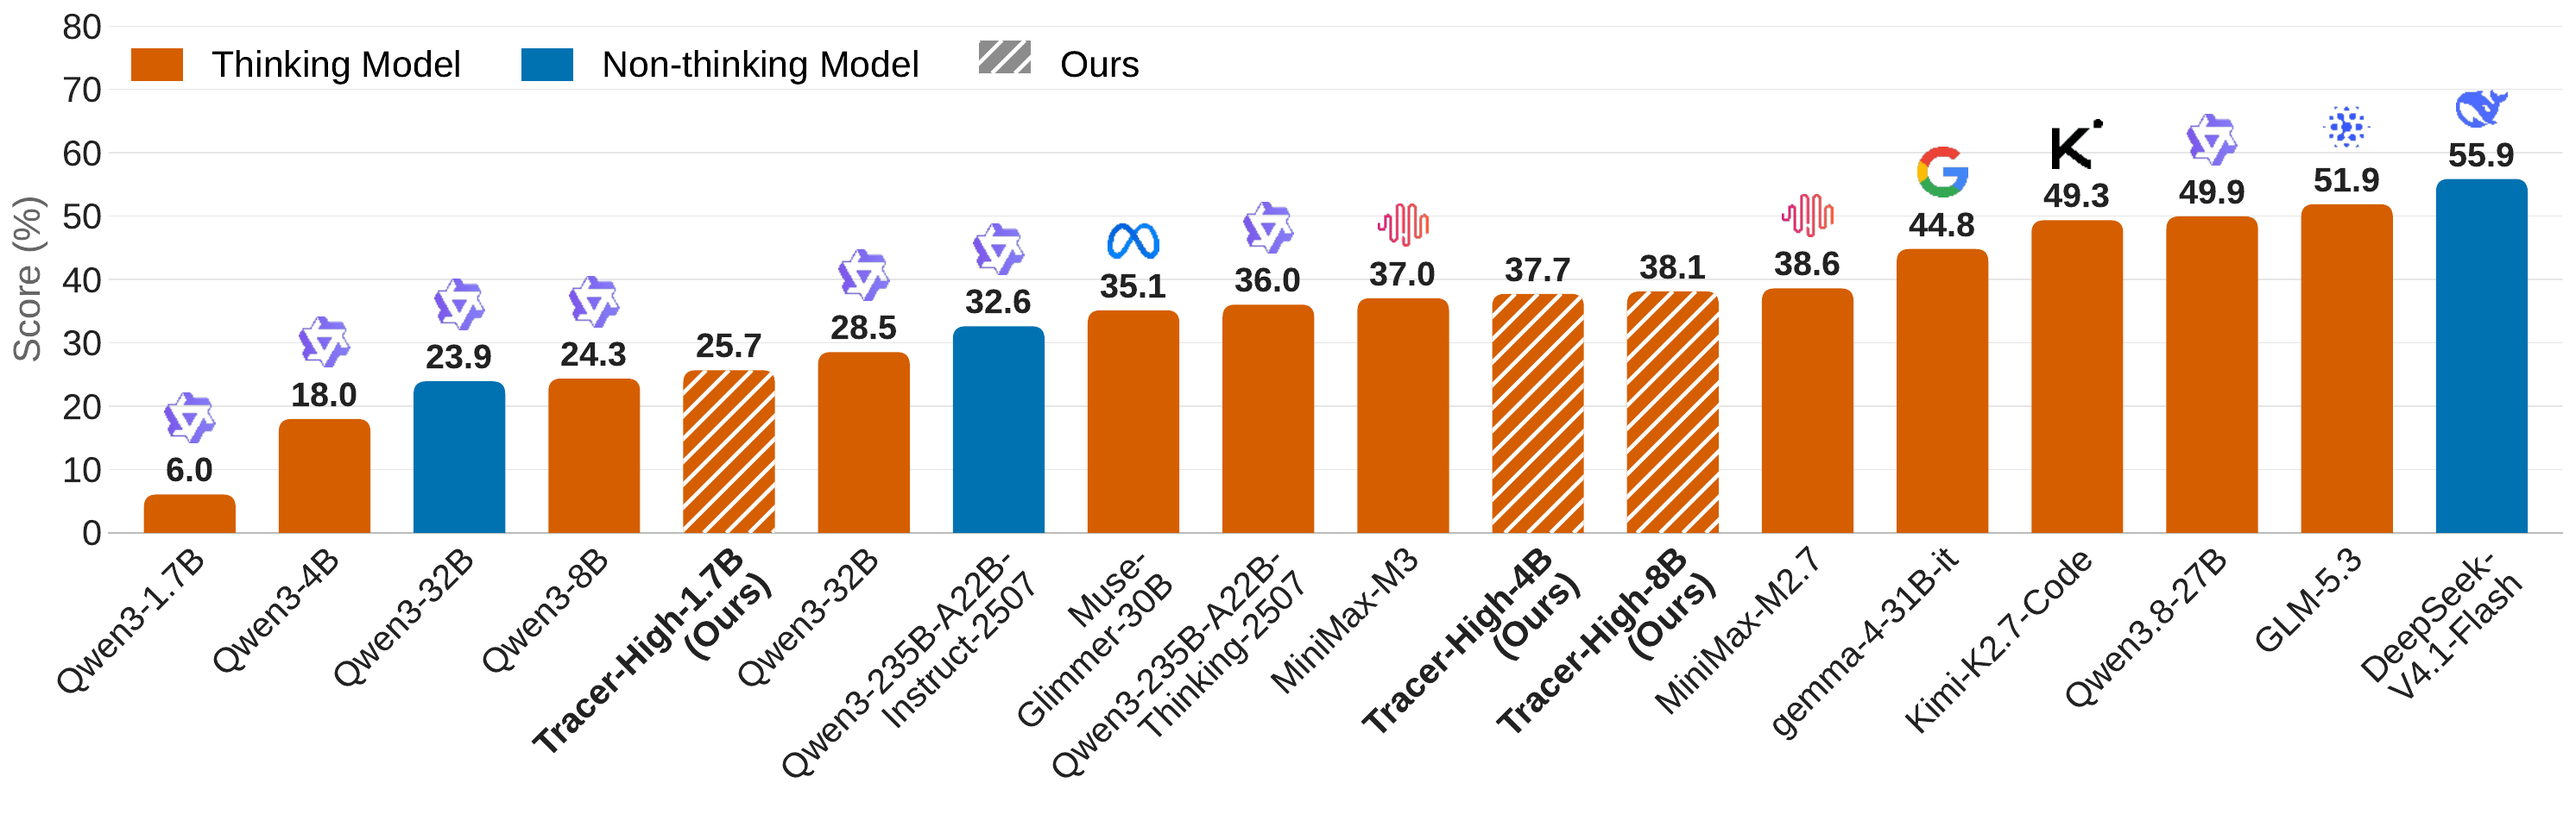
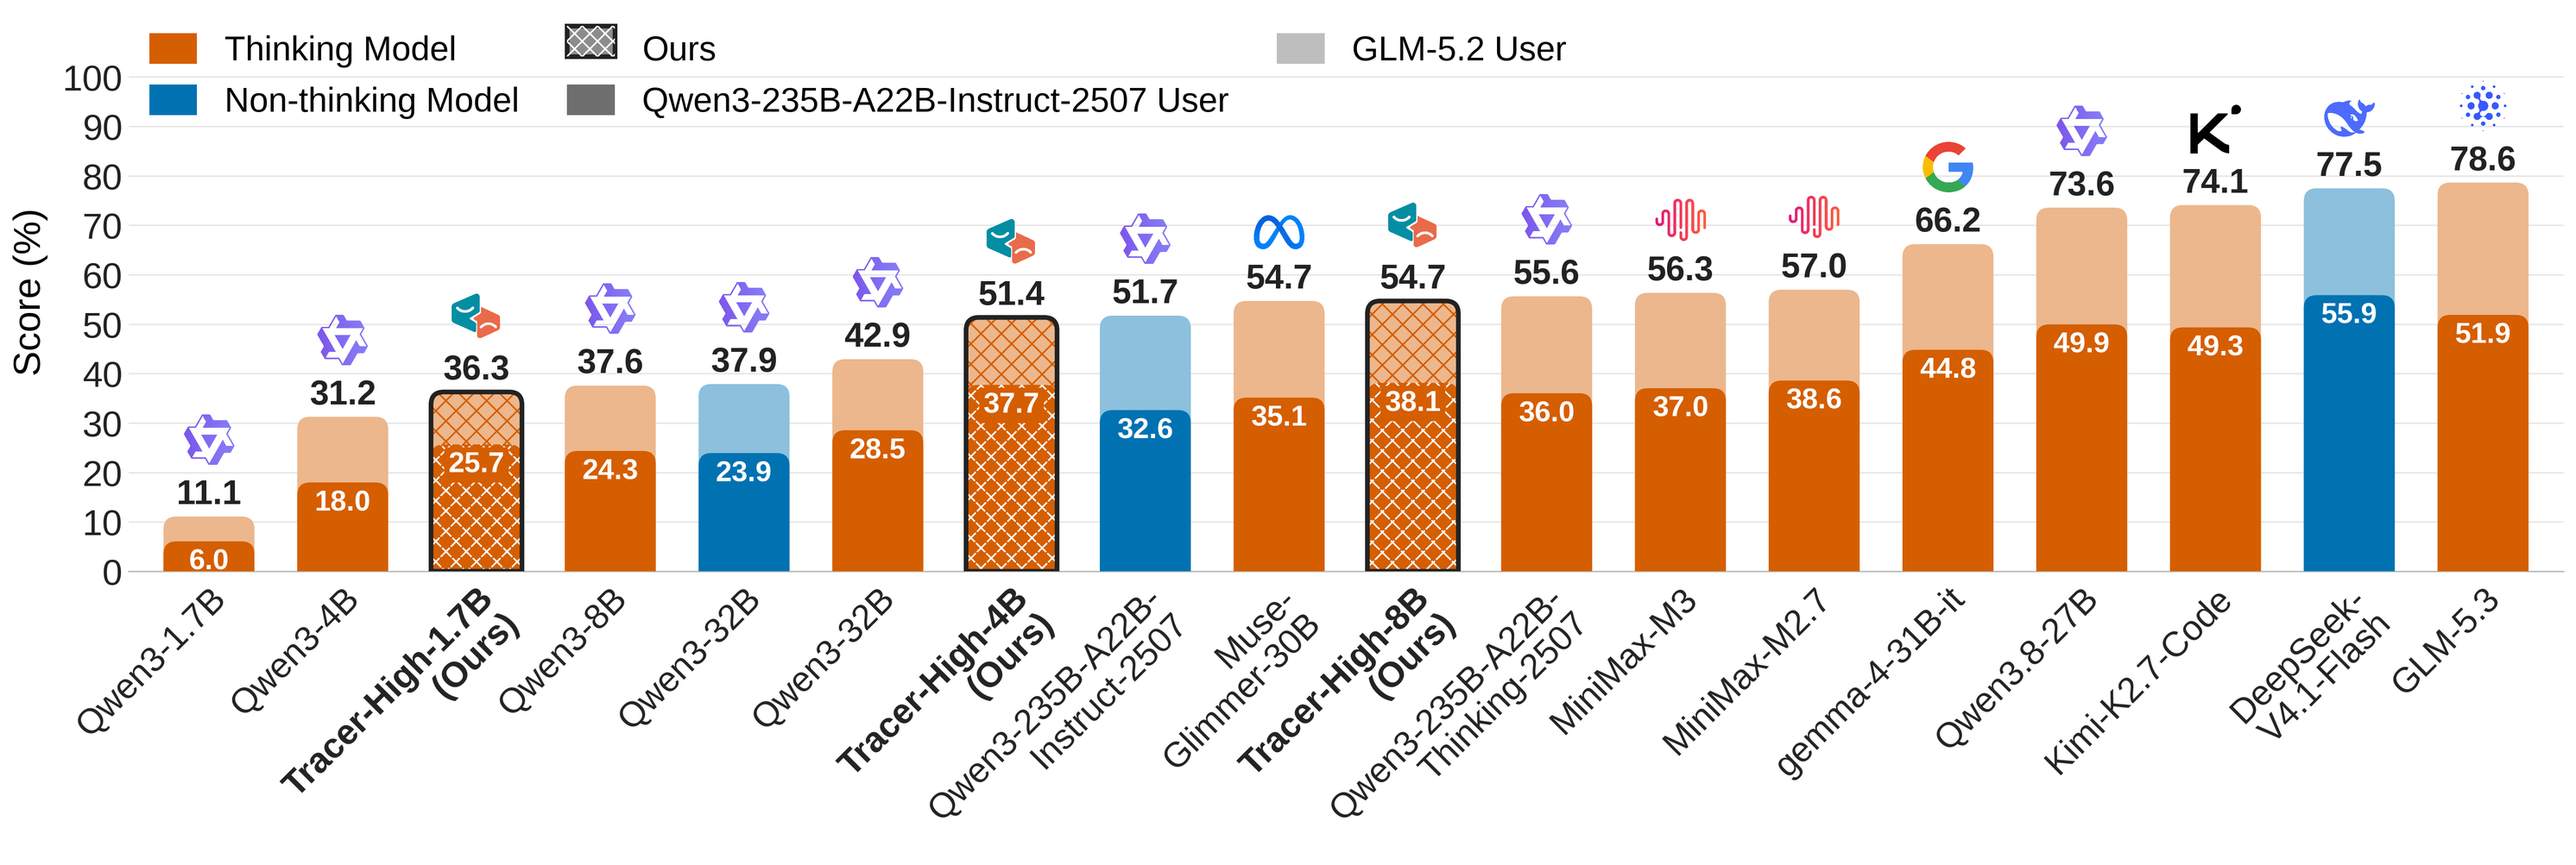
docs: shorten intro, two-line title, new results chart, move third-party notices into LICENSE

diff --git a/README.md b/README.md
@@ -1,6 +1,6 @@
 <div align="center">
   <img src="docs/assets/logo.png" alt="τ-Emotion-Bench logo" width="96">
-  <h1>τ-Emotion-Bench: Exposing the Interaction Fragility of LLM Agents<br>through Real-World User Emotions</h1>
+  <h2>τ-Emotion-Bench: Exposing the Interaction Fragility<br>of LLM Agents through Real-World User Emotions</h2>
 </div>
 
 <p align="center">
@@ -22,29 +22,12 @@
 
 ## Introduction
 
-In long-horizon tool-calling tasks, LLM agents can fail not only because of
-tool-use errors, but also because of ineffective interaction with users. Yet
-existing benchmarks largely assume cooperative and behaviorally stable users,
-leaving the effect of emotional variation on agent reliability underexplored. We
-introduce **τ-Emotion-Bench**, a benchmark for evaluating tool-calling agents under
-emotion-conditioned user interactions across ten domains. To construct the
-benchmark at scale, we introduce **Tracer**, a scalable agentic data-generation
-pipeline that constructs policy-valid tool workflows, grounds them into executable
-tasks, incorporates user preferences and task-specific emotional context, and
-verifies task validity against the environment. The resulting tasks are mapped to a
-structured emotion space and paired with emotion-conditioned user simulators,
-enabling controlled evaluation while preserving the underlying task semantics.
-Experiments show that frontier models remain unreliable under these interactions,
-with substantial variation in task success and consistency across user conditions.
-Beyond evaluation, we use Tracer-generated data to fine-tune models across scales,
-resulting in consistent improvements on τ-Emotion-Bench and strong generalization
-to unseen domains, external benchmarks, and different user simulators. Overall,
-τ-Emotion-Bench and Tracer provide a scalable framework for evaluating agent
-reliability under diverse user behaviors and improving tool-calling agents through
-transferable supervision.
-
-The tasks were generated with [Tracer](tracer/README.md), which is also in this
-repository.
+τ-Emotion-Bench tests whether tool-calling agents stay reliable when the user is
+emotional: curt, anxious, distrustful, in a hurry. It has 580 test tasks across ten
+customer-service domains, each pairing a tool-use goal with an emotion-conditioned
+user simulator. Frontier models remain unreliable under these interactions. The
+tasks are generated by [Tracer](tracer/README.md), our agentic data-generation
+pipeline, whose data also improves the models we fine-tune on it.
 
 <p align="center">
   <img src="docs/assets/hero.png" alt="Average accuracy of LLM agents on τ-Emotion-Bench over three runs" width="100%">
@@ -231,7 +214,7 @@ We thank the authors of the following projects, which this work builds on:
 - [τ-trait](https://github.com/collinear-ai/tau-trait): the telecom and telehealth environments
 - [ToolOrchestra](https://github.com/NVlabs/ToolOrchestra): the bank, basketball, movie, restaurant, school and travel domains
 
-Third-party license notices are in [THIRD_PARTY_NOTICES.md](THIRD_PARTY_NOTICES.md).
+Their license notices are at the end of [LICENSE](LICENSE).
 
 ## License
 

diff --git a/tracer/README.md b/tracer/README.md
@@ -6,7 +6,7 @@ format the benchmark reads (`../data/tau_emotion/domains/<domain>/tasks*.json`).
 It covers all 10 domains: airline, retail, telecom, telehealth, bank, basketball,
 movie, restaurant, school and travel. The last six build on the ToolScale domains
 of [ToolOrchestra](https://github.com/NVlabs/ToolOrchestra) (see
-[THIRD_PARTY_NOTICES.md](../THIRD_PARTY_NOTICES.md)).
+[LICENSE](../LICENSE)).
 
 Tasks are generated and verified in Tracer's own environments,
 `tracer/envs/<domain>/`: the tools, the policy (`wiki.md`) and the database of each
